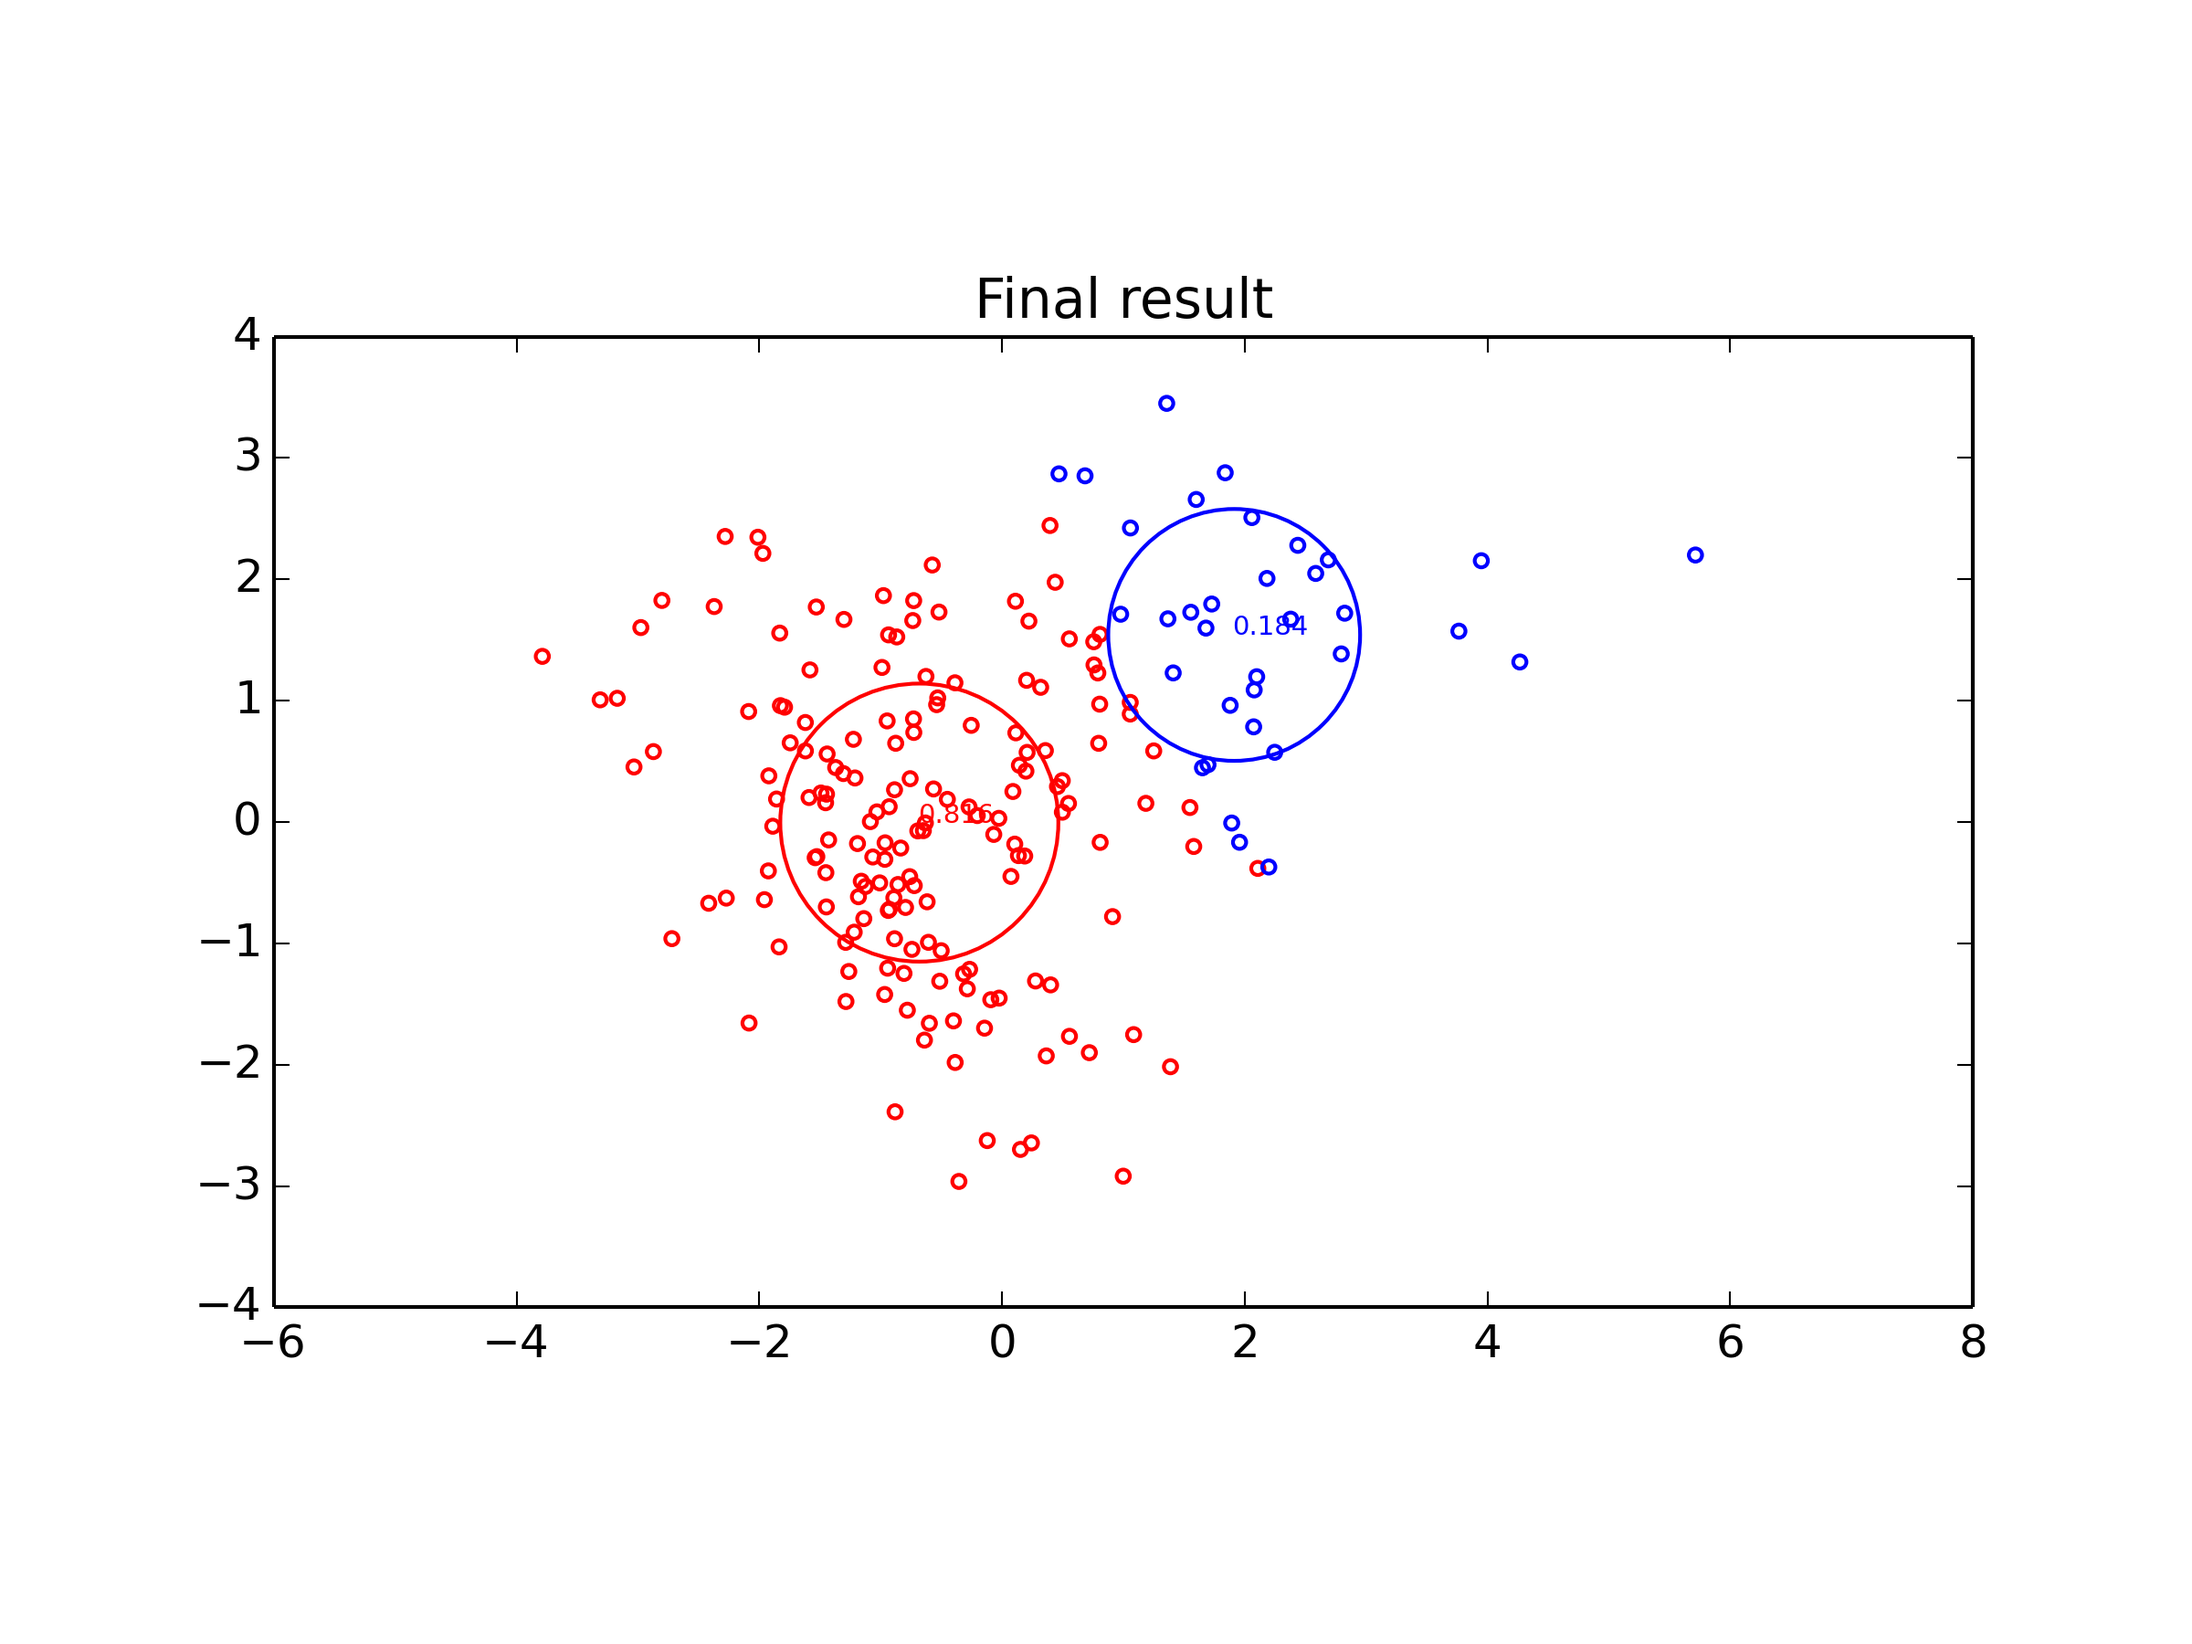
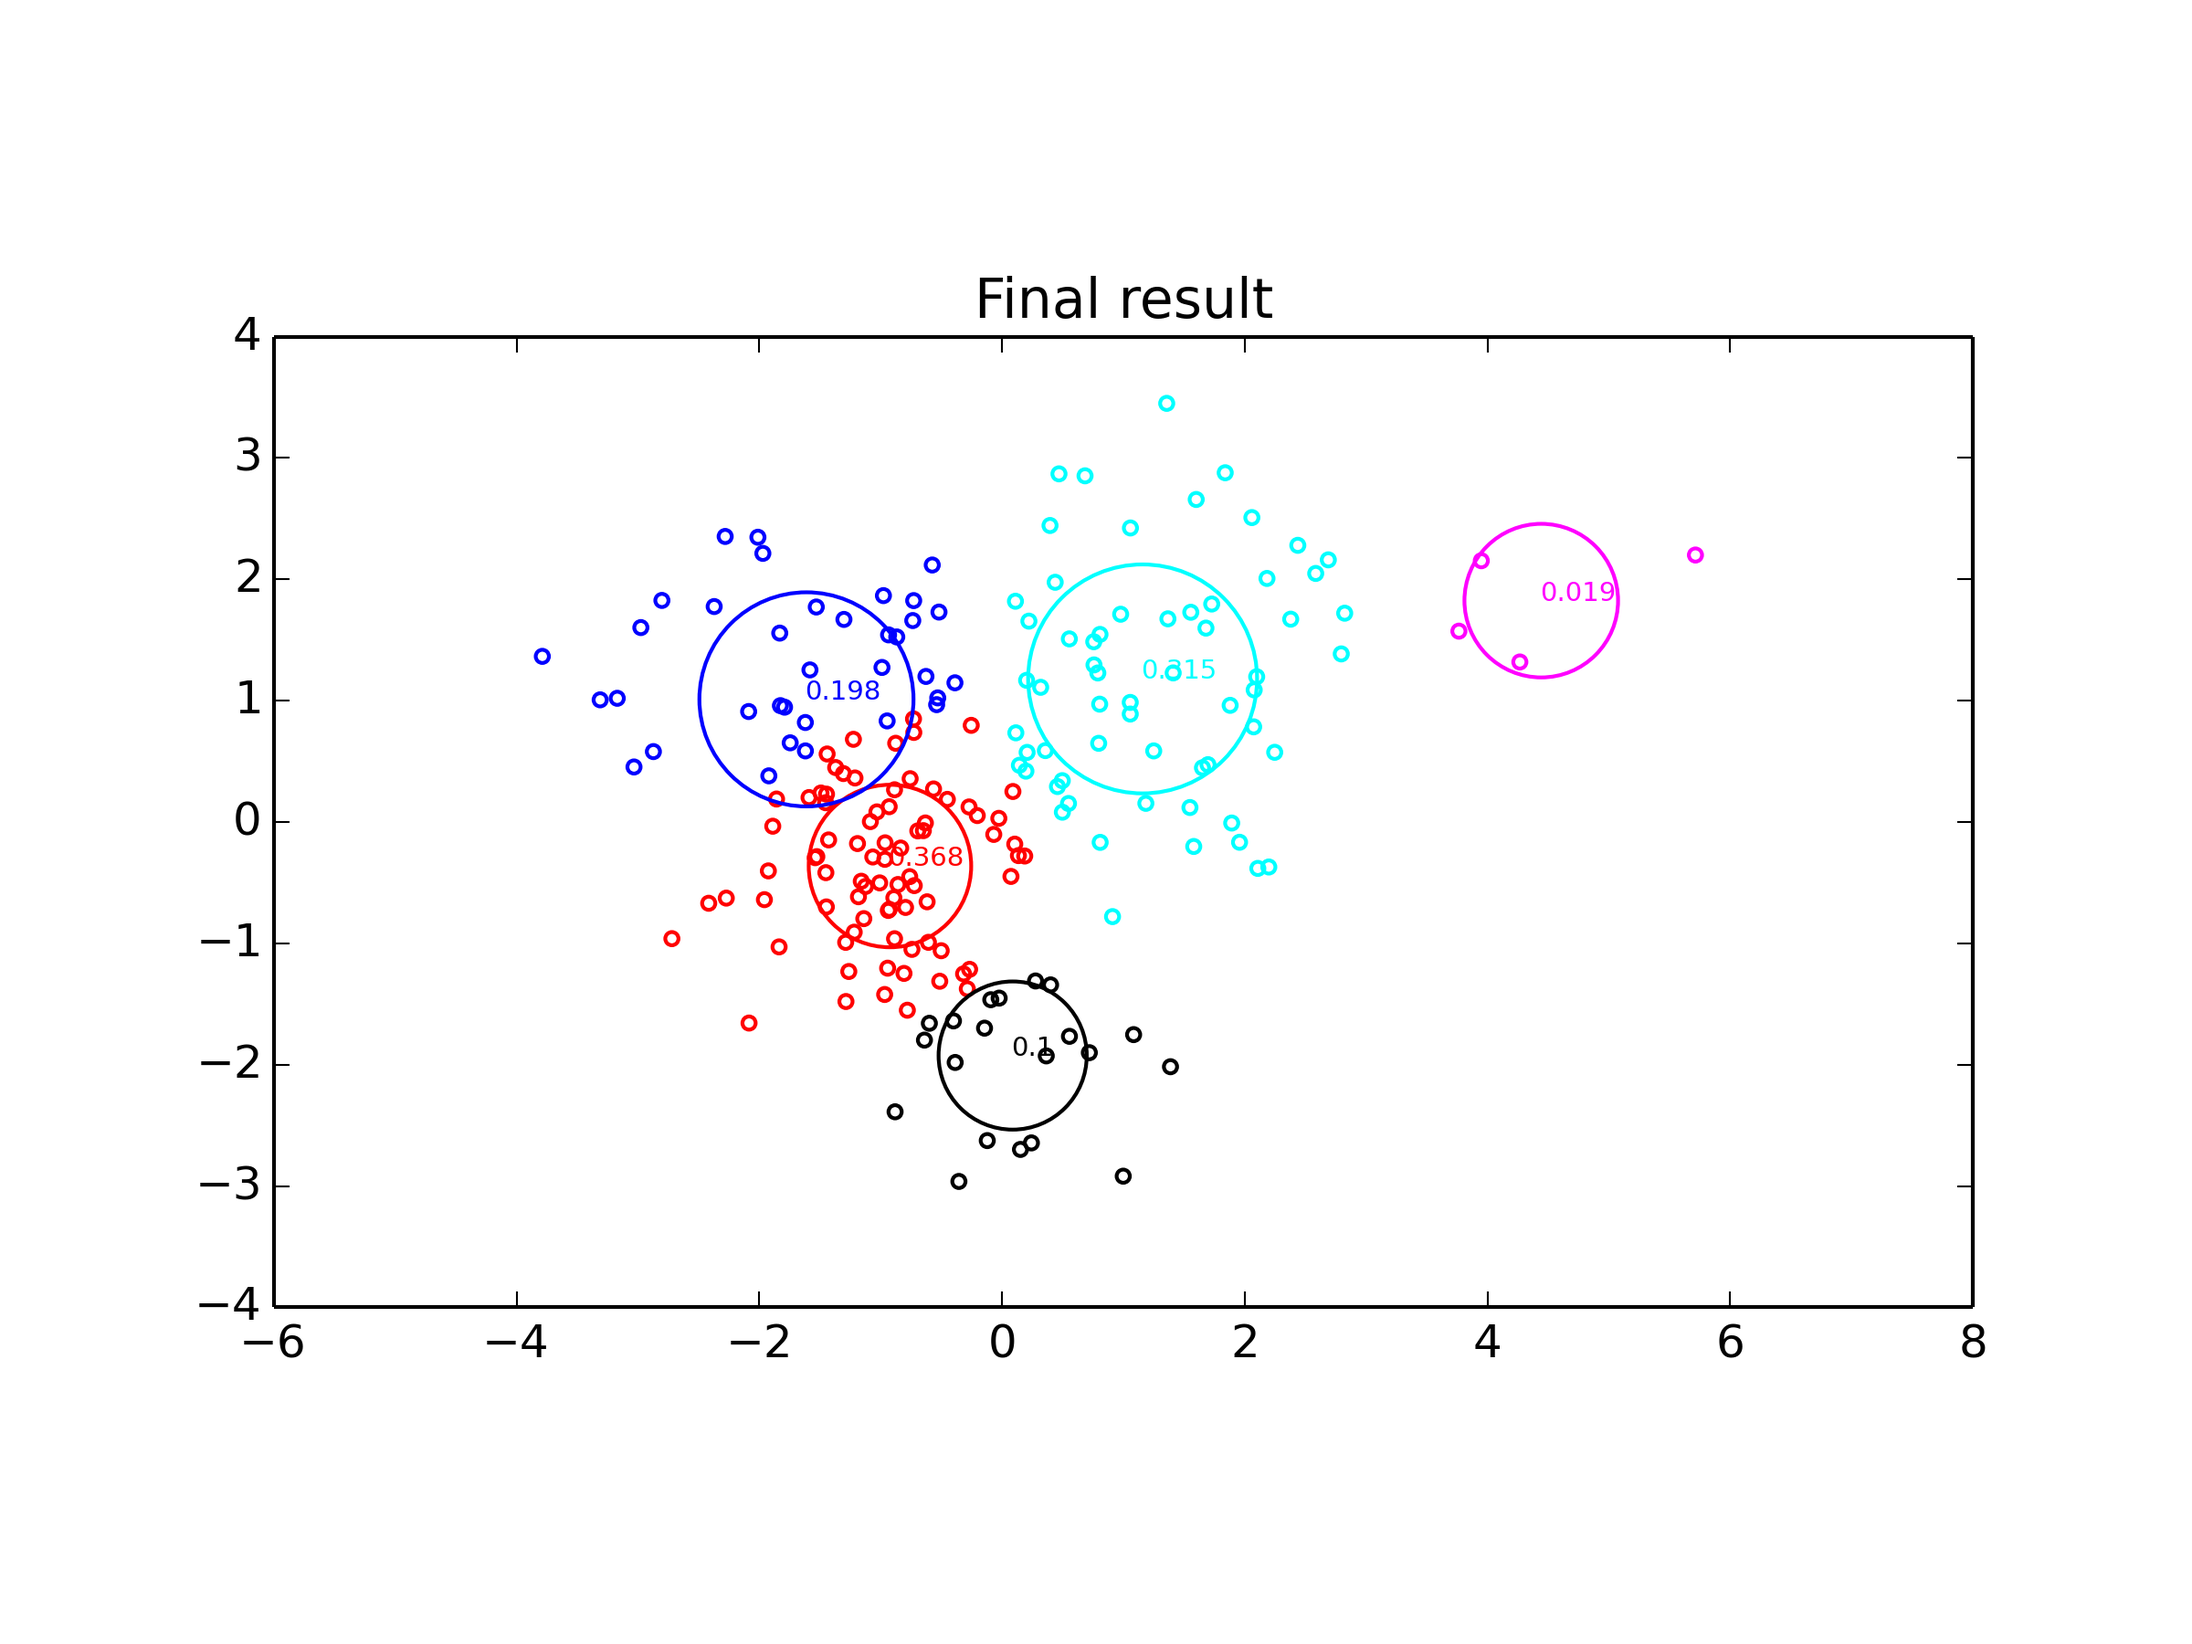
fix bugs in hard EM

diff --git a/solution/mygmm.py b/solution/mygmm.py
@@ -106,9 +106,12 @@ class GMM:
                     else:
                         label = np.argmax([weights_[i]*self._gaussian(X[t], means_[i], covars_[i]) for i in range(self.n_components)])
                         p[label][t] = 1
+                        for i in range(self.n_components):
+                            if label != i: p[i][t] = 0
 
                 # M-step
                 n_cap = [sum([p[i][t] for t in range(n)]) for i in range(self.n_components)]
+                print n_cap
                 weights_ = [n_cap[i]/float(n) for i in range(self.n_components)]
                 means_ = [sum([p[i][t] * X[t] for t in range(n)])/n_cap[i] for i in range(self.n_components)]
                 # print means_
@@ -188,7 +191,7 @@ class GMM:
 
 def main():
     X = np.loadtxt(open('../data/data.txt',"rb"),delimiter=" ",skiprows=0)
-    clf = GMM(n_components=2, n_init=1, tol=1e-6, n_iter=200, verbose=True, image=True)
+    clf = GMM(n_components=2, n_init=1, tol=1e-6, n_iter=200, verbose=True, image=False, soft=False)
     clf.fit(X)
 
 if __name__ == '__main__':
